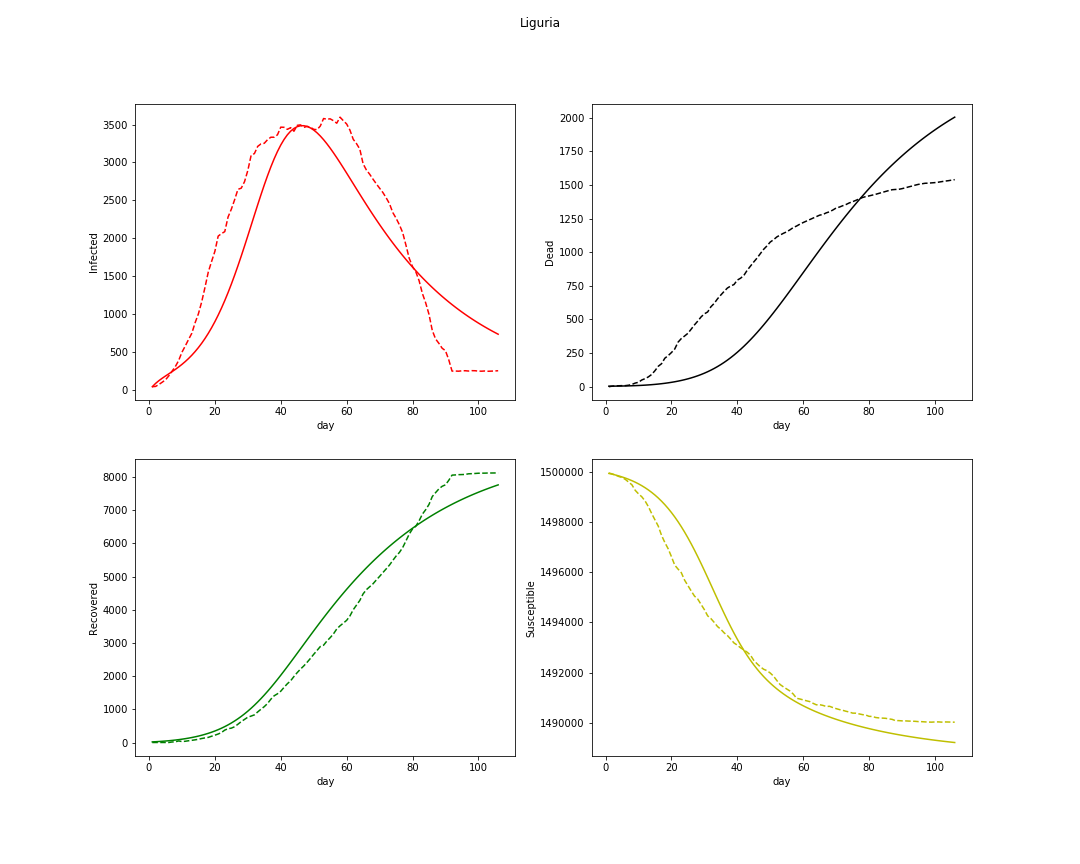
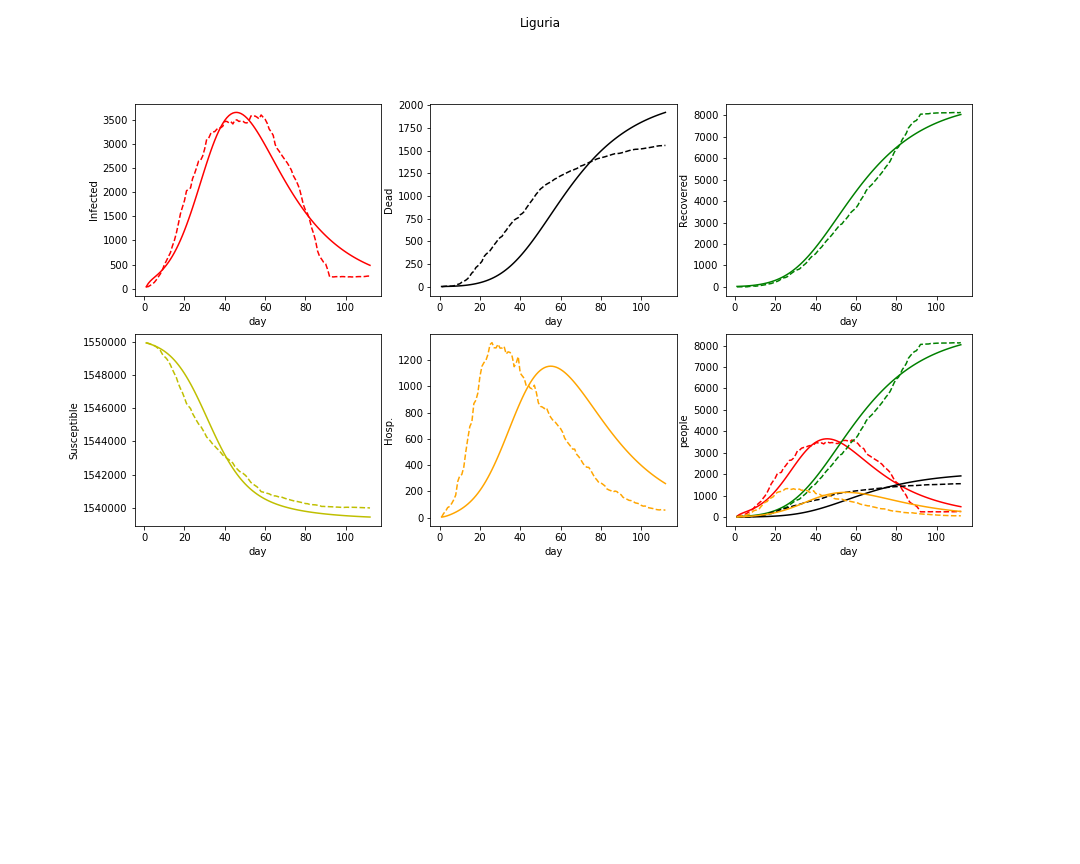
file fitSEIHRD.py, df_fitSEIHRD.csv modified

diff --git a/examples/SAR-COV2/0dim/fitSEIHRD2b.py b/examples/SAR-COV2/0dim/fitSEIHRD2b.py
@@ -14,13 +14,13 @@ from scipy.integrate import odeint
 
 
 dati_regione=pd.read_csv('dpc-covid19-ita-regioni.csv')
-regione='P.A. Trento'
+regione='Sicilia'
 TRUEregione=dati_regione['denominazione_regione']==regione
 dati_regione_=dati_regione[TRUEregione]
 dati_regione1=dati_regione_[dati_regione_['totale_positivi']>25] #per stabilire il t0
  
 
-N=500000
+N=5000000
 age_effect=1
 demographic = {"0-29": 0.2, "30-59": 0.4, "60-89": 0.35, "89+": 0.05}
 
